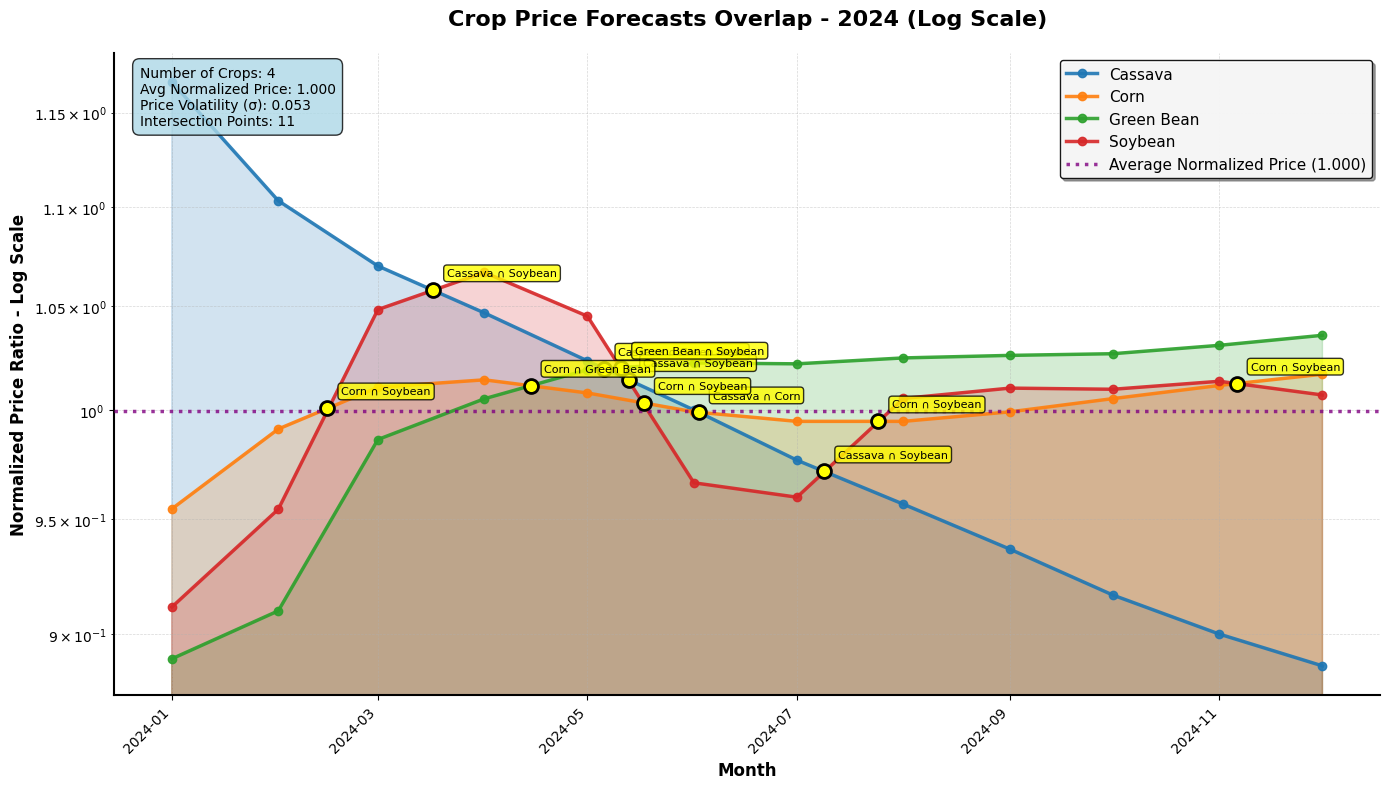
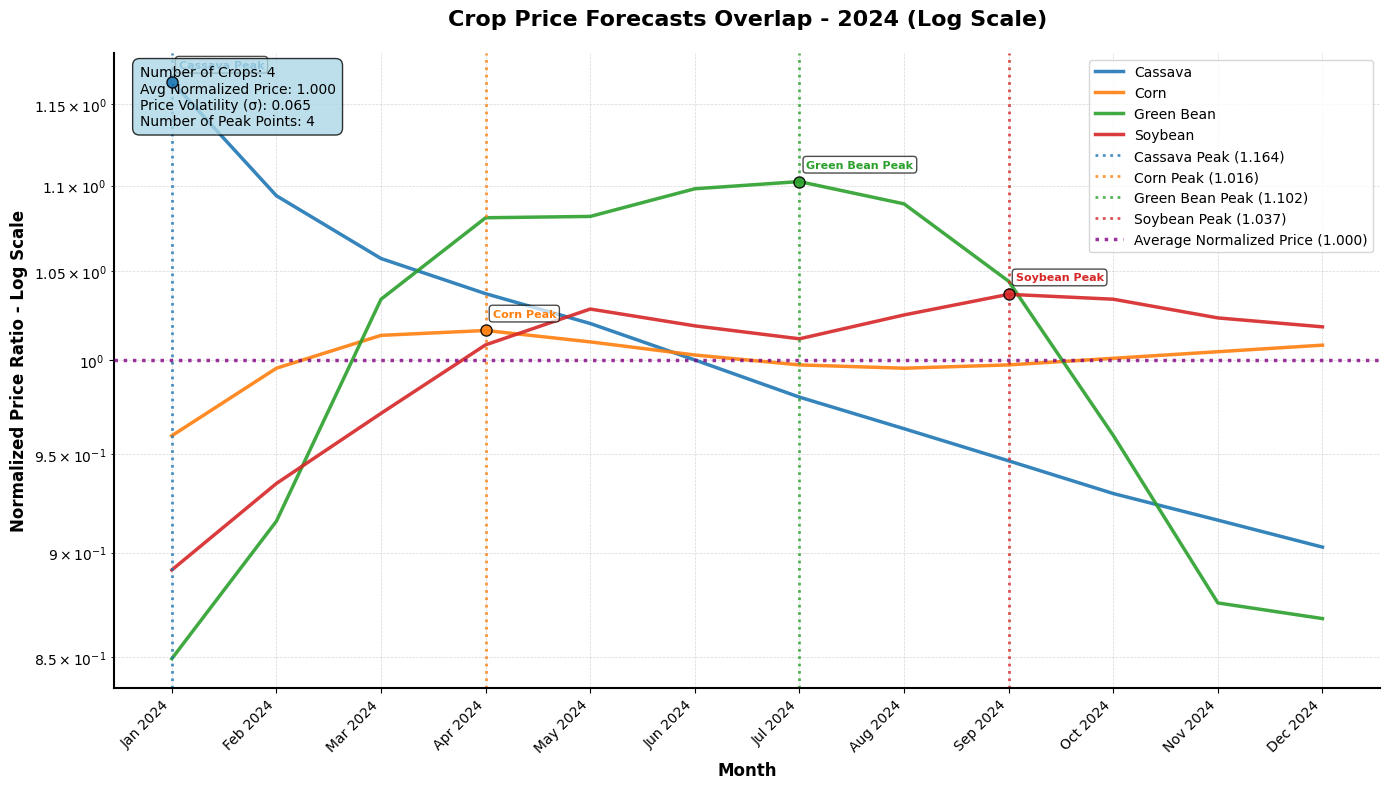
Update image references in README and replace output image for overlap analysis

diff --git a/README.md b/README.md
@@ -338,7 +338,7 @@ The models generate:
 **Sample Visualizations:**
 
 **Cassava Price Forecast:**
-![Cassava Forecast](src/model/image/forecast/LSTM/cassava_prices_forecast.png)
+![Cassava Forecast](src/model/image/forecast/LSTM/cassava.png)
 
 **Error Analysis:**
 ![Error Analysis](src/model/image/error/Transformer/soy_bean_error.png)
